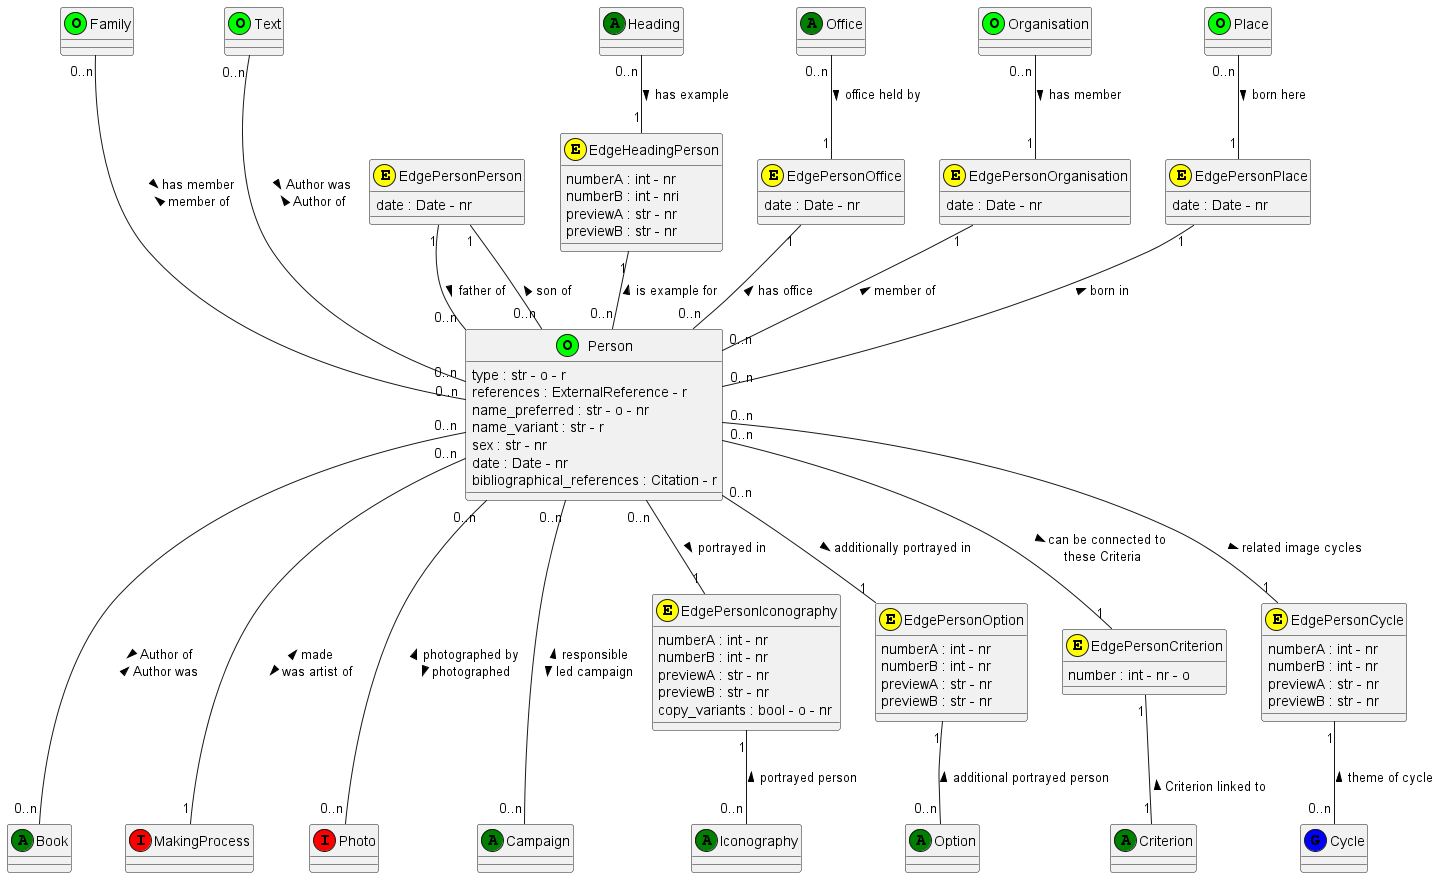
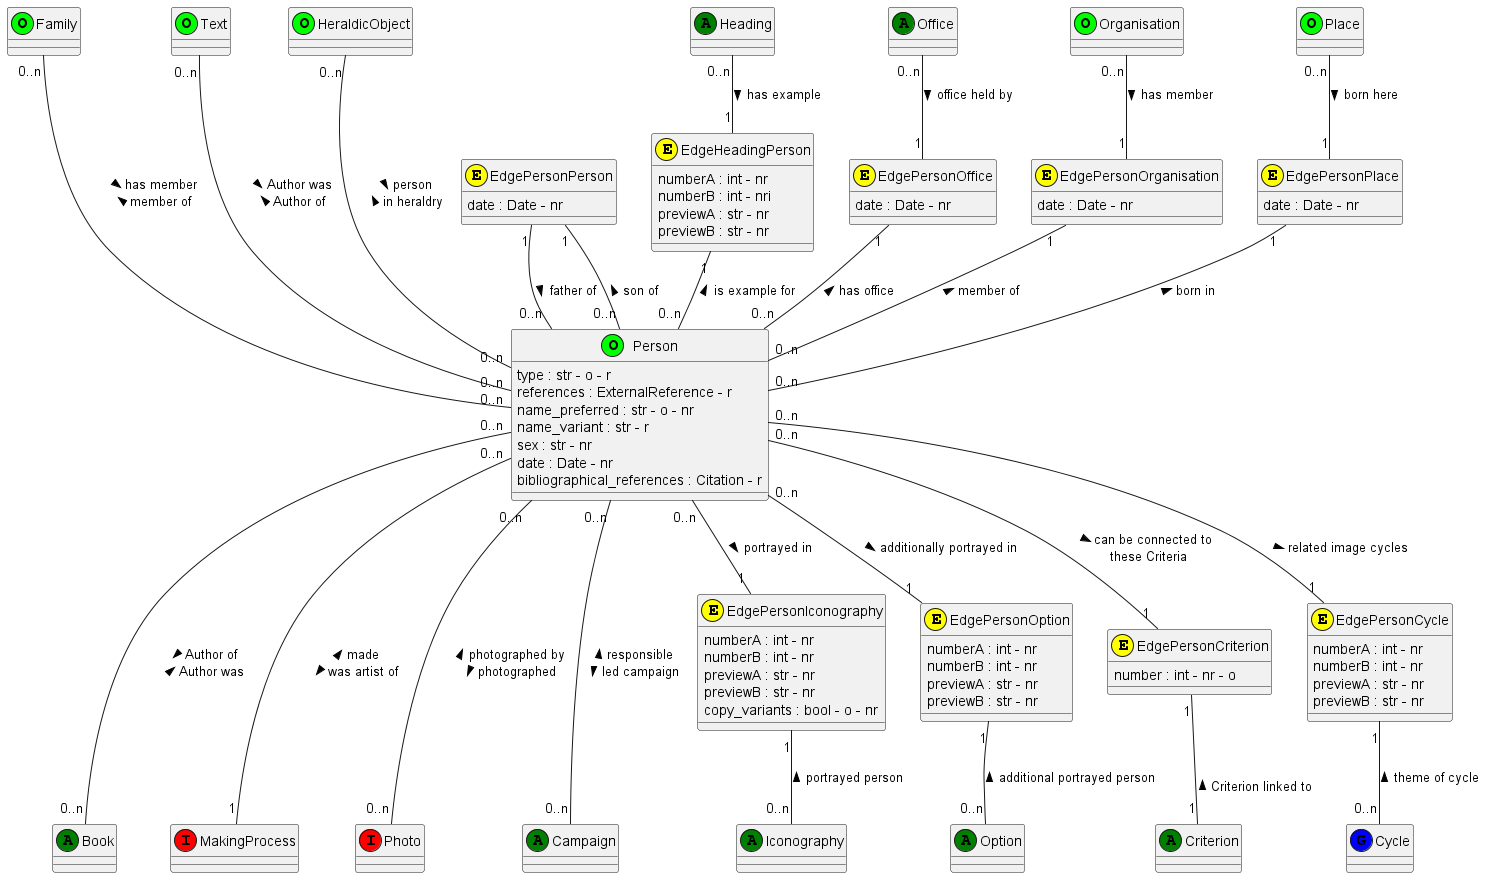
HeraldicObject added
Now it should be nearly complete, the only missing thing I can think of is ways of describing typological relationships.

diff --git a/documentation/Iconobase - Classes.md b/documentation/Iconobase - Classes.md
@@ -16,6 +16,7 @@ Iconobase - Classes
   - [Place](#place)
   - [NaturalObject](#naturalobject)
   - [Thing](#thing)
+  - [Heraldic Object](#heraldic-object)
   - [Text](#text)
   - [Action](#action)
 - [Authority Records that do not function as Object records](#authority-records-that-do-not-function-as-object-records)
@@ -660,6 +661,8 @@ All records can be linked to Iconography and Object records - with exception of 
 - The record must be linked to a parent record (unless it is already e.g. 'Animals'). 
 - The record must be linkedto an Iconography, Option, Cycle or HeraldicObject record. 
 
+
+
 ## Thing
 
 Thing records are Object records used for anything that is neither a Person nor a Family, nor a Personification nor an Organisation nor a Place nor an Option for Nature. Hence, it may describe things ranging from zodiac signs to surgical tools. I am still relatively vague about how it could be used. 
@@ -687,6 +690,54 @@ attribute / object used as attribute
 additionally depicted / additionally depicted object. 
 
 The 'attribute' relationship is of special interest - there will be a search function for Images (thus Options) connected to a specific Thing (or NaturalObject) via the relationship 'attribute', e.g., all Personifications that have a lightning-bolt as attribute. 
+
+## Heraldic Object
+
+Coats-of-arms work differently from other images. 
+- Only relatively few Objects (especially Natural Objects and Things) are shown regularly in them, but they are shown in many variations (e.g., a lion could be standing, on all fours, sleeping, in different colours, and potentially with tongue, claws, or other body-parts in another colour). This necessitates the following changes: 
+  - No 'normal' Objects are connected to coats-of-arms. Instead, special 'Heraldic Object' records are made and linked to the standard Object record, e.g. Lion (Heraldic Object) vs. Lion (Natural Object)
+  - Thus, the system otherwise used for describing iconographical variants and placed between Iconography and Image records is here placed between Heraldic Object and Iconography records. 
+  - Conversely, the Iconography record of a coat-of-arms will probably not have any variants (this means, there are different ways of showing lions, but the royal arms of England always have three lions passant guardant or). Hence, there is no need for inheriting these variants (the only variants of coat-of-arm Iconography records I can think of is if the arms are shown complete, or only the shield, or only the crest, but this may not be worth it)
+- Many coats-of-arms, especially from the post-medieval period, are composites eof (often 4, 9, or even more) shields, most of which can also appear alone (they were inherited from different branches of a family). 
+  - For these purposes, the class IconographyComposite will be introduced (see there)
+
+![Create](./class_diagrams/HeraldicObject.png)
+
+**Attributes:**
+- type: Here, one could discern Ordinaries (simple geometrical patterns) and charges proper (animals etc.), and perhaps subdivide charges into e.g. animals, objects, persons etc.
+- name/name_translated: English heraldry uses a very specialist language, and for technical terms a plain English version should be given
+
+**Edge between Person and Iconography:**
+**Edge between Place and Iconography:**
+**Edge between NaturalObject and Iconography:**
+**Edge between Thing and Iconography:**
+
+These are links between the normal Object records and HeraldicObject records - necessary because the normal Object records do not the attached structure of Criteria and Options. Normally, a HeraldicObject would be linked to another Object (and, I cannot think why it should be linked to more than one, although I have to think about that more), the exception being simple Ordinaries (see above). Currently, I cannot think of other Object records being connected to coats-of-arms, but maybe one or two more will have to be added. 
+
+**Edge between HeraldicObect and Criterion (EdgeHeraldicObjectCriterion):**
+
+This Edge is used for describing how the elements appear in the coat-of-arms (e.g. how many?, which posture? which colour?). Most probably each HeraldicObject will have at least one Criterion, colour. 
+
+**Criterion and Option records:**
+
+These records have been described in detail above. Here, their functioin is different. They do not indicate a range of variants of an iconography of which an individual image might pick one or more, but rather they define which variant of an Object is part (immutable part) of a certain iconography. The English royal arms have, for instance, three golden lions, the arms of the Duchy of Normandy two golden lions, and the arms of the medieval Duchy of Swabia three black lions. Hence, there is no need to inherit any variants, and the attribute copy_variants is always false. 
+
+**Additional criteria for creating links:**
+
+- none
+
+
+**Additional criteria for validation for saving record:**
+
+- none
+  
+
+**Additional criteria for validation for publishing record:**
+
+- The record must have at least one Criterion record (for colour)
+- Unless the record has the type 'Ordinary', it must be linked to at least one other Object record. 
+- The record must be linked to an Iconography record. 
+
 
 
 
@@ -800,7 +851,7 @@ The Heading can signify general themes (e.g., liturgy, teaching, execution of ju
 
 **Edge between Action and Criterion:**
 
-This is useful for recording different variants of an action, it would need to be inherited through 'copy_variant'. To use the bloodthirsty example from above, one could perhaps ask here, if a sword, and axe, or a guillotine is used. If there are Actions that are children of Actions, there is naturally a risk of the inheritance becoming chaotic. 
+This is useful for recording different variants of an action, it would need to be inherited through 'copy_variants'. To use the bloodthirsty example from above, one could perhaps ask here, if a sword, and axe, or a guillotine is used. If there are Actions that are children of Actions, there is naturally a risk of the inheritance becoming chaotic. 
 
 
 **Additional criteria for creating links:**
@@ -938,6 +989,13 @@ This record is the central record on subject-matter of an Image, and as such it 
 
 These Edges connect the Iconography record to records for the Objects shown in the Iconography. All Edges are explained with the respective Objects. Several more such Edges will be added later. 
 
+**Edge between Iconography and Iconography (EdgeIconographyIconography):**
+
+This Edge would be used primarily for coats-of-arms: There would be one Iconography that has a complex coats-of-arms (e.g. Royal Arms of the United Kingdom) that has connections to Object records of the owner of the coat-of-arms (in this case a Place), and connections to the Iconography records of the individual arms of England, Scotland, and Ireland. (I am not sure if the composite coat-of-arms may also have connections to HeraldicObject records, e.g. for the Supporters - in any case, the structure as drawn up here allows this). 
+The attribute "location" cold tell where in the composite shield the individual shields are. 
+
+In theory, one could use this arrangement also for describing scenes that regularly include other scenes, e.g. a Nativity with Annunciation to the Shepherds in the background. However, this needs more thinking, and in any case, it would necessitate inheriting variants (coats-of-arms have none )
+
 **Edge between Iconography and Criterion (EdgeIconographyCriterion):**
 
 This Edge connects the Iconography record with a Criterion record that specifies an element where variants occur, e.g., a specific attribute that may be present or not. 
@@ -969,10 +1027,12 @@ none
 - the record must be linked to at least one Iconography record. 
 - according to some preliminary discussions with the editors of Iconclass: if the record has no Iconclass ID in external references, an automatic message will be sent to Iconclass. If Iconclass assigns a notation to this iconography, this ID will be sent to Iconobase (if possible, it should be added to the record automatically, otherwise manually). 
 
+
+
 ## Criterion
 
 Criterion records are one of the two elements of the innovative system to describe variants of works of art. The Criterion record names one aspect of the Image, and the Option records describe different ways this aspect is shown, e.g., a Criterion record could be "with attribute key?", and the Options would be "yes", "now", "unclear" and "not yet determined". 
-Criterion records can appear in three places: most commonly, they are connected to Iconography records and name an aspect of the icongraphy. However, it is also possible to affix them to records for some Objects linked to Iconography records, most commonly Person or Personification records. They would then describe aspects of depictions of this Person or Personification and would be inherited to linked Iconography records, with the Edge has copy_variants as True. Lastly, they can be connected to Heraldic Objects, since in coats-of-arms not the iconography of the Objects have variants (e.g., lion rampant or). 
+Criterion records can appear in three places: most commonly, they are connected to Iconography records and name an aspect of the icongraphy. However, it is also possible to affix them to records for some Objects linked to Iconography records, most commonly Person or Personification records. They would then describe aspects of depictions of this Person or Personification and would be inherited to linked Iconography records, with the Edge has copy_variants as True. Lastly, they can be connected to Heraldic Objects, since in coats-of-arms not the iconography of the Objects have variants (e.g., lion rampant or). For the sake of clarity, the connected needede for the latter are not shown hnere but in the diagram HeraldicObject. 
 
 ![Create](./class_diagrams/Criterion.png)
 
@@ -1012,11 +1072,13 @@ A Criterion record would be published together with the Iconography record (it w
 
 The Option record is the second part of describing iconographical variants, if the Criterion record poses a question, the Option record suggests a potential answer. This record is more complex than the Criterion record, since it is - like the Iconography record, linked to Option records. 
 
+
 ![Create](./class_diagrams/option.png)
 
 **Attributes:**
 - external references can exist, sometimes Iconclass calls has separate notations for what would here be variants. 
 - name_preferred and name_short are two different variants of the name. name_preferred is used as a stand-alone name, and name_short together with the name of the Criterion, e.g. there may be the Criterion "with Joseph", name_short of one option would be 'no', and name_preferred 'without Joseph'
+- name_translated will probably be only used in the context of heraldry, as translation of heraldic terms, e.g. "gold" for "or". I am not sure if one would also need translations for the shorter form (which are only seen by editors)
 - search_term: terms used for search, e.g., in the above example, the Option 'with Joseph' might have 'Joseph' as additional search tame, e.g. for a search "Adoration Magi Joseph", whereas "without Joseph" would not have this search term (and it should not be found in searches for 'Joseph'). 
 
 **Edge between Criterion and Option (EdgeCriterionOption):**
